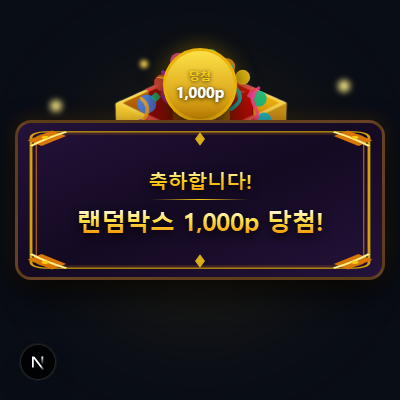
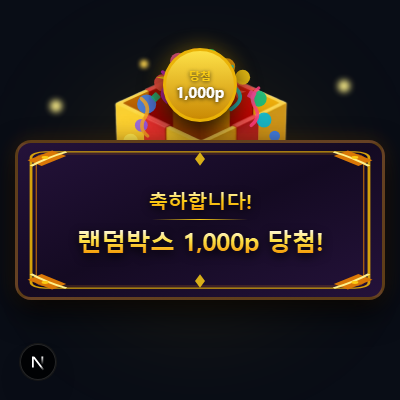
style: 럭키박스 배너 멘트 카드를 Y축으로 20px 하향 조정하여 상자 입구 노출 최적화 및 5종 배너 재발행

Changed region(s): [[0.03, 0.27, 0.96, 0.75]]

diff --git a/app/render-banners/page.tsx b/app/render-banners/page.tsx
@@ -240,7 +240,7 @@ function LuckyBoxBanner({ amount }: { amount: number }) {
         <div className="absolute z-20 top-[60px] left-[140px] w-2 h-2 bg-amber-300 rounded-full blur-[2px] animate-pulse"></div>
 
         {/* 축하 배너 카드 */}
-        <BannerCard gameLabel="랜덤박스" rewardLabel={rewardLabel} className="z-[40]" />
+        <BannerCard gameLabel="랜덤박스" rewardLabel={rewardLabel} className="z-[40] translate-y-[20px]" />
       </div>
     </div>
   );
